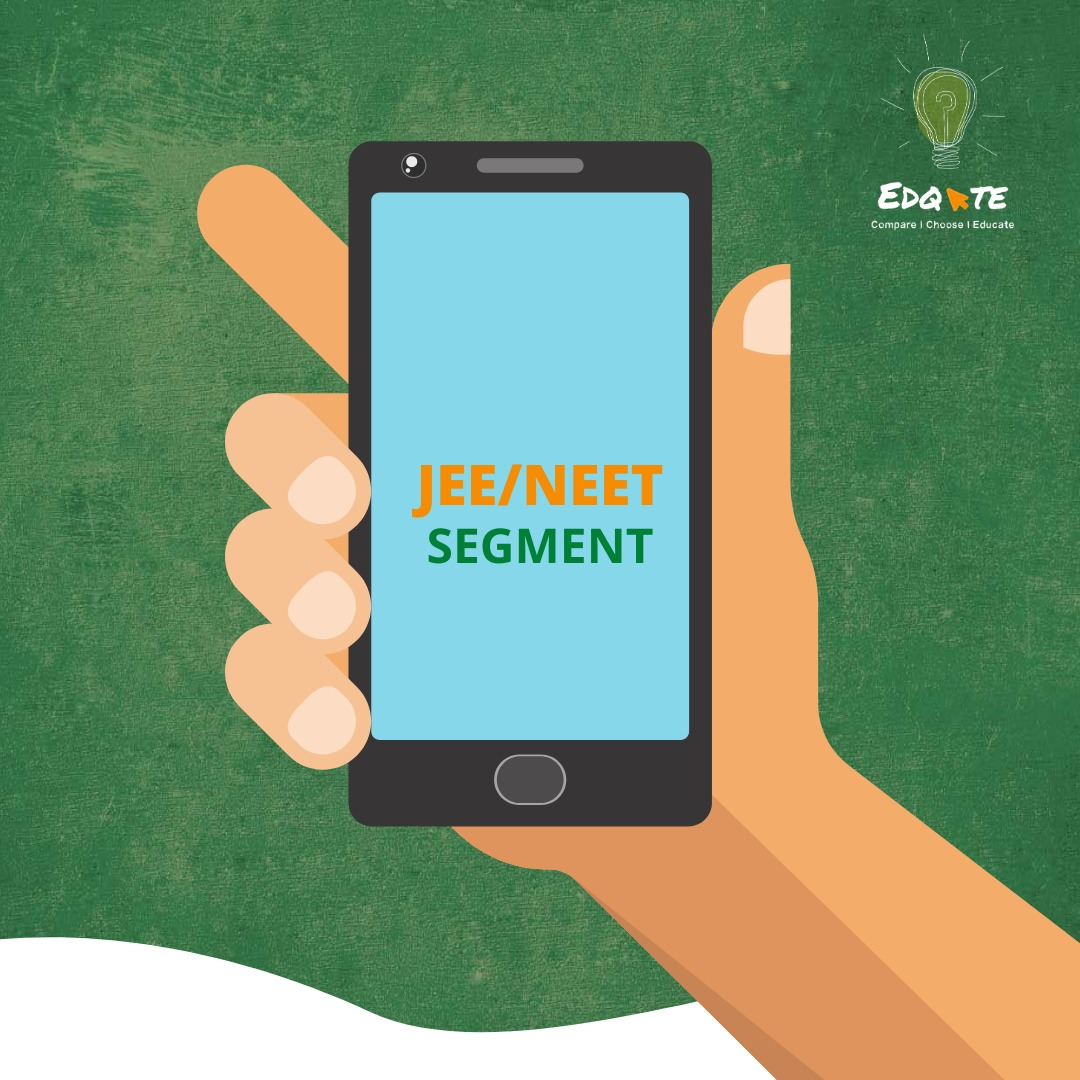
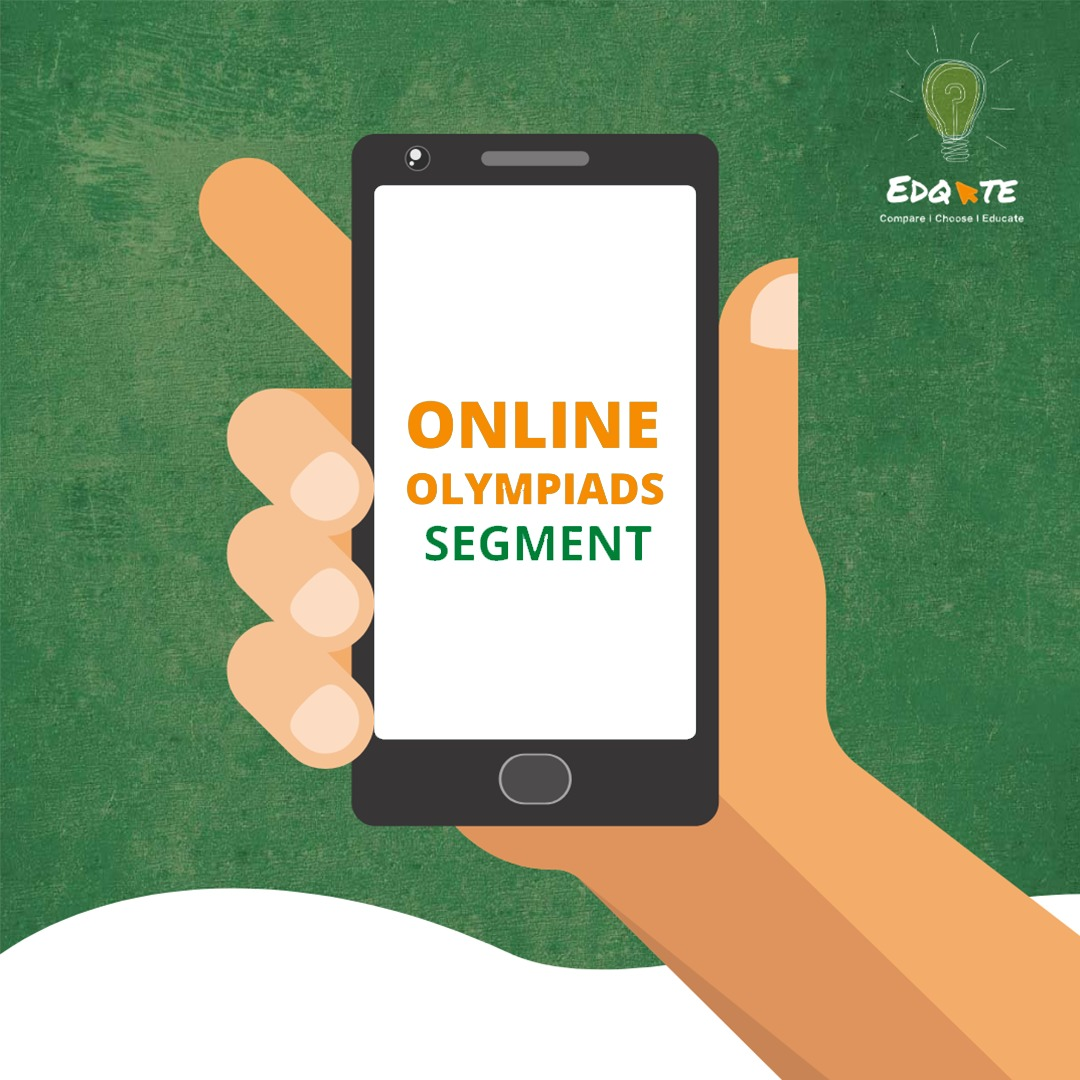
addin the images to the segment sectiona and making thing finals

diff --git a/index.html b/index.html
@@ -50,7 +50,7 @@
           <ul class="nav-links">
             <li class="nav-items"><a href="#who">Who We Are</a></li>
             <li class="nav-items"><a href="#what">What We Do</a></li>
-            <li class="nav-items"><a href="#Segment">Segment</a></li>
+            <li class="nav-items"><a href="#Segment">Segments</a></li>
             <li class="nav-items"><a href="#sm">Smart Approach</a></li>
           </ul>
 
@@ -237,155 +237,18 @@
         </div>
       </section>
       <!-- end card section -->
+
       <section id="Segment" style="margin-bottom: 10rem;"></section>
+
       <!-- segment section -->
       <section class="segment-section">
         <div class="container">
           <div class="text-center">
             <h2 class="heading-secondary">Segment</h2>
-            <p class="what-are-paragraph">
-              Lorem ipsum dolor sit amet consectetur adipisicing elit Fuga
-              magnam eos quas assumenda sint Dolorum perspiciatis labore quaerat
-              molestias ex non necessitatibus aperiam neque Libero deleniti
-              eligendi veniam mollitia commodi?
-            </p>
           </div>
         </div>
       </section>
-      <!-- segment section end -->
 
-      <!-- card section -->
-      <section class="card-section">
-        <div class="container">
-          <div class="card-row">
-            <div class="card-col">
-              <div class="card-self">
-                <div class="card-icon">
-                  <img
-                    src="./assets/images/card/i-1.png"
-                    alt="icon"
-                    class="img-fluid card-icon-image"
-                  />
-                </div>
-                <h4 class="card-heading">K3</h4>
-                <div class="under-line"></div>
-                <p class="text-left card-text">
-                  We will start with a comprehensive test to get answers to the
-                  questions that are important to understand the learning curve.
-                </p>
-              </div>
-            </div>
-            <!-- col-2 -->
-            <div class="card-col">
-              <div class="card-self">
-                <div class="card-icon">
-                  <img
-                    src="./assets/images/card/i-2.png"
-                    alt="icon"
-                    class="img-fluid card-icon-image"
-                  />
-                </div>
-                <h4 class="card-heading">K10</h4>
-                <div class="under-line"></div>
-                <p class="text-left card-text">
-                  The test will then be assessed by our experts on the panel who
-                  are educators, industry experts, experienced parents to
-                  identify the best options for your child.
-                </p>
-              </div>
-            </div>
-            <!-- col-3 -->
-            <div class="card-col">
-              <div class="card-self">
-                <div class="card-icon">
-                  <img
-                    src="./assets/images/card/i-3.png"
-                    alt="icon"
-                    class="img-fluid card-icon-image"
-                  />
-                </div>
-                <h4 class="card-heading">JEE/NEET</h4>
-                <div class="under-line"></div>
-                <p class="text-left card-text">
-                  Based on the feedback by our panelists, our counsellor will
-                  get in touch with you to explain the analytics and again try
-                  to gain your feedback for final discussions.
-                </p>
-              </div>
-            </div>
-            <!-- col-4 -->
-            <div class="card-col">
-              <div class="card-self">
-                <div class="card-icon">
-                  <img
-                    src="./assets/images/card/i-4.png"
-                    alt="icon"
-                    class="img-fluid card-icon-image"
-                  />
-                </div>
-                <h4 class="card-heading">UPSC</h4>
-                <div class="under-line"></div>
-                <p class="text-left card-text">
-                  Our counsellor will get in touch with the experts to take a
-                  final call on the recommended apps.
-                </p>
-              </div>
-            </div>
-            <!-- col-5 -->
-            <div class="card-col">
-              <div class="card-self">
-                <div class="card-icon">
-                  <img
-                    src="./assets/images/card/i-5.png"
-                    alt="icon"
-                    class="img-fluid card-icon-image"
-                  />
-                </div>
-                <h4 class="card-heading">OLYMPIADS</h4>
-                <div class="under-line"></div>
-                <p class="text-left card-text">
-                  You directly receive a call from the App customer support team
-                  that is most suitable for your child for enrolment.
-                </p>
-              </div>
-            </div>
-          </div>
-        </div>
-      </section>
-      <!-- end card section -->
-
-      <!--
-
-
-
-fajsldfkjaslkdfjasldfj
-laskdfjlaskjdflasjdflasjdf
-sldakfjas ldfjk as;dklf
-asdflk asdjf l
-
-New Seg Section
-
-
-
-
- -->
-      <!-- segment section -->
-      <section class="segment-section">
-        <div class="container">
-          <div class="text-center">
-            <h2 class="heading-secondary">Segment</h2>
-            <p class="what-are-paragraph">
-              Lorem ipsum dolor sit amet consectetur adipisicing elit Fuga
-              magnam eos quas assumenda sint Dolorum perspiciatis labore quaerat
-              molestias ex non necessitatibus aperiam neque Libero deleniti
-              eligendi veniam mollitia commodi?
-            </p>
-          </div>
-        </div>
-      </section>
-      <!-- segment section end -->
-
-      <!-- card section -->
       <section class="card-section">
         <div class="container">
           <div class="card-row">
@@ -404,24 +267,14 @@ New Seg Section
             <div class="card-col">
               <img src="./assets/images/seg/4.jpeg" class="img-fluid" alt="" />
             </div>
+            <!-- col-5 -->
+            <div class="card-col">
+              <img src="./assets/images/seg/5.jpeg" class="img-fluid" alt="" />
+            </div>
           </div>
         </div>
       </section>
-      <!-- end card section -->
-
-      <!--
-
-
-asldfjaskld fjaslkdjf laskdjf
-asdlfj asdklfj asldkfj
-asdfl asjdlf kjasdlfk
-asdfl kasjd flasjdl f
-asdl fjkasljdf laskjdf
-askld fjlas dflas jkdf
-asldkf jasd
-
-
-  -->
+      <!-- end segmaents section -->
 
       <section id="sm" style="margin-bottom: 10rem;"></section>
       <!-- smart approch -->
@@ -562,7 +415,7 @@ asldkf jasd
         <!-- second row -->
         <div class="row">
           <div class="col-lg-3"></div>
-          <div class="col-lg-3">
+          <div class="col-lg-6">
             <div class="footer-info">
               <h4>ABOUT US</h4>
               <div class="white-under-line"></div>
@@ -573,26 +426,16 @@ asldkf jasd
                 one for you. Be it schooling, Olympiads, competitive exams or
                 tuitions.
               </p>
-            </div>
-          </div>
-          <div class="col-lg-3">
-            <div class="footer-info contact">
-              <h4>GET IN TOUCH</h4>
-              <div class="white-under-line"></div>
               <p>
                 Have a discussion with our education experts to decide which is
                 the best, most fun and efficient way to learn for you and your
                 loved ones.
               </p>
-              <a
-                href="mailto:info@edqate.com
-              "
-                >info@edqate.com
-              </a>
             </div>
           </div>
+
           <div class="col-lg-3">
-            <div class="footer-info">
+            <div class="footer-info contact">
               <h4>GET SOCIAL</h4>
               <div class="white-under-line"></div>
               <a href="#" target="_blank"><i class="fab fa-instagram"></i> </a>
@@ -604,6 +447,14 @@ asldkf jasd
               ></a>
               <a href="#" target="_blank"><i class="fab fa-twitter"></i></a>
               <a href="#" target="_blank"><i class="fab fa-linkedin-in"></i></a>
+
+              <div>
+                <a
+                  href="mailto:info@edqate.com
+              "
+                  >info@edqate.com
+                </a>
+              </div>
             </div>
           </div>
         </div>

diff --git a/assets/css/style.css b/assets/css/style.css
@@ -540,11 +540,15 @@ b {
   display: inline-block;
   padding: 1rem 1.5rem 0.6rem 1.5rem;
   border: 1px solid var(--white-color);
-  margin-bottom: 1rem;
 }
-.contact > a {
+.contact > div {
+  margin-top: 3rem;
+}
+.contact > div > a {
   border: none;
   font-family: var(--down-para-font);
+  color: var(--white-color);
+  font-size: 2rem;
 }
 
 .footer-info > a > i {
